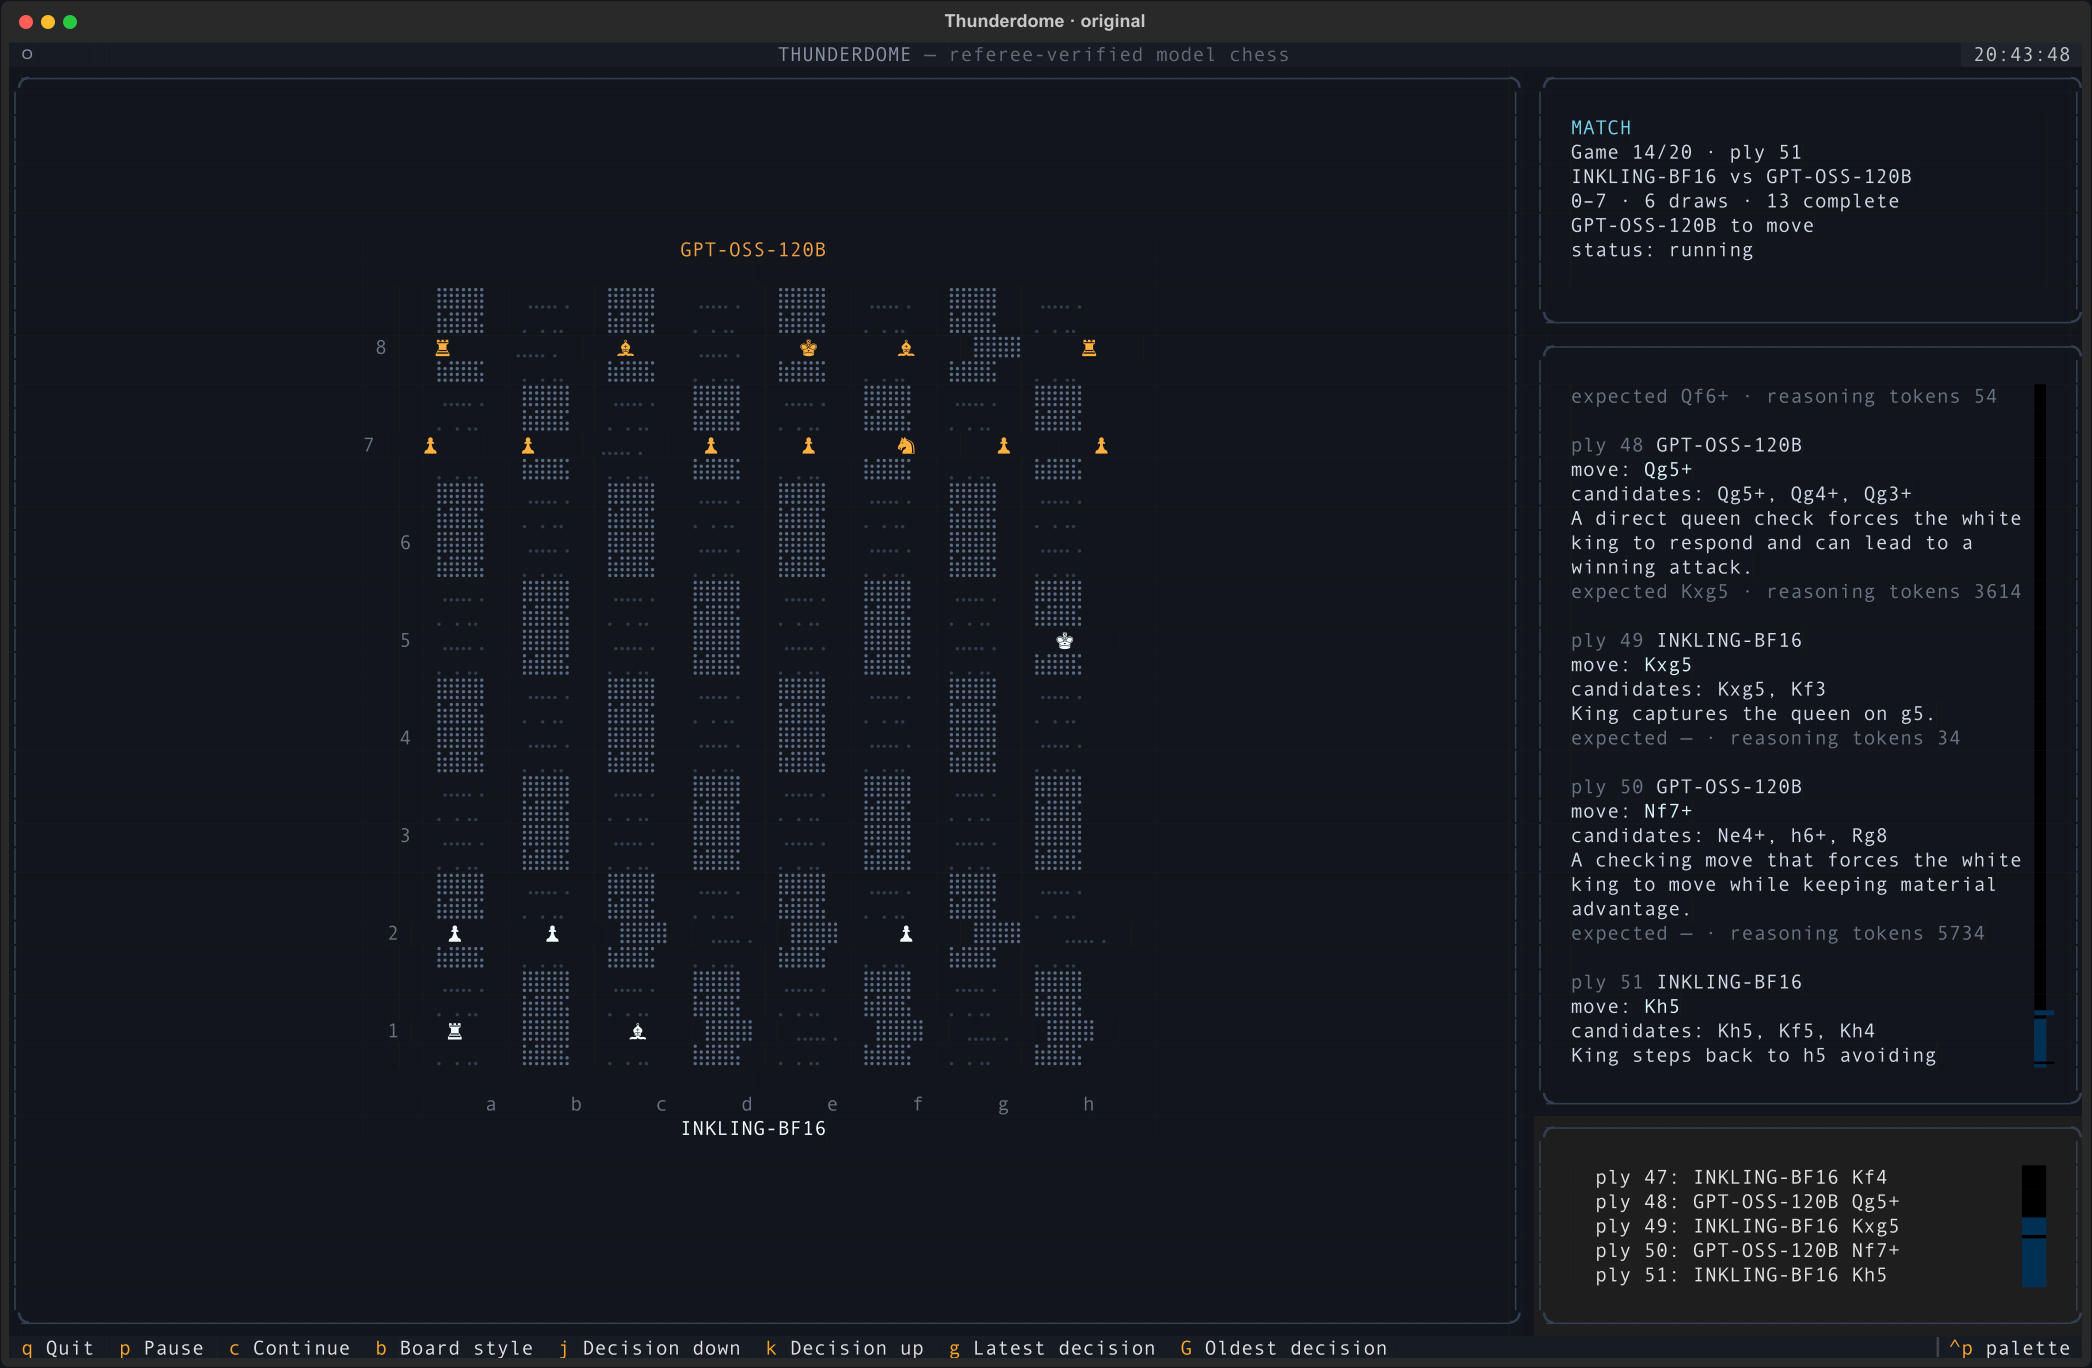
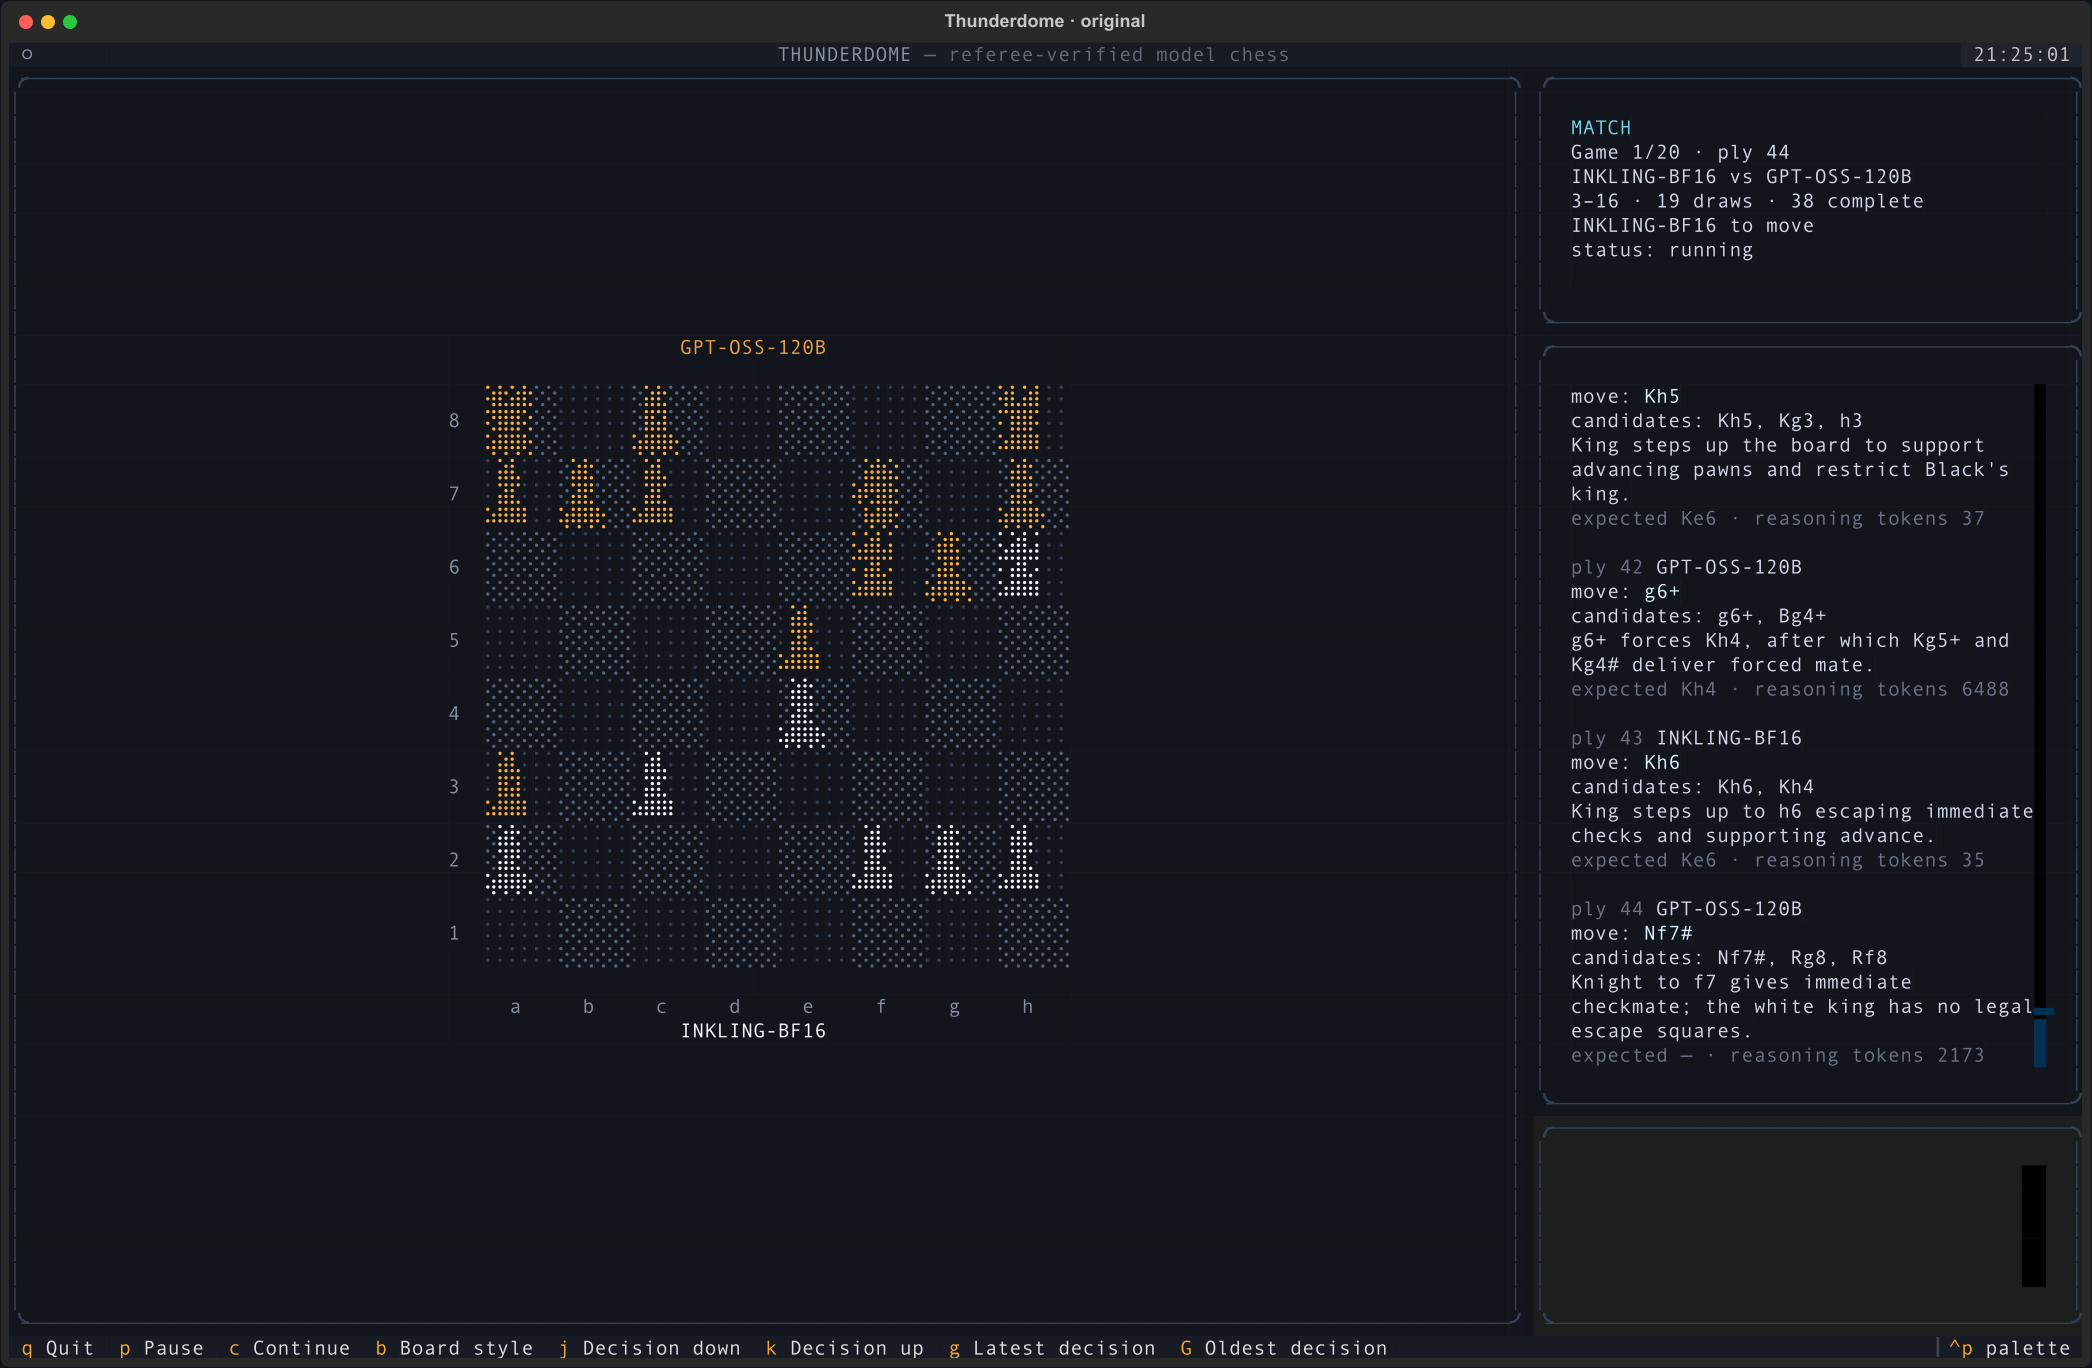
fix: render coherent dot-matrix chessboard

diff --git a/cli/src/arcade_cli/thunderdome.py b/cli/src/arcade_cli/thunderdome.py
@@ -100,7 +100,15 @@ class BrailleBoard(Static):
     """Board widget with an original dot-field style and a compact glyph style."""
 
     GLYPHS = {1: "●", 2: "◆", 3: "▲", 4: "■", 5: "✦", 6: "♚"}
-    FIGURES = {1: "♟", 2: "♞", 3: "♝", 4: "♜", 5: "♛", 6: "♚"}
+    SPRITES = {
+        1: ("  ██  ", " ████ ", "  ██  ", " ████ ", "██████"),
+        2: ("  ███ ", " █████", "██ ███", "   ███", " █████"),
+        3: ("  ██  ", " ████ ", " ██ █ ", " ████ ", "██████"),
+        4: ("██  ██", "██████", " ████ ", " ████ ", "██████"),
+        5: ("█ ██ █", "██████", " ████ ", "  ██  ", "██████"),
+        6: ("  ██  ", "██████", "  ██  ", " ████ ", "██████"),
+    }
+    DOT_BITS = ((0x01, 0x02, 0x04, 0x40), (0x08, 0x10, 0x20, 0x80))
 
     def __init__(self, style: str = "original", **kwargs):
         super().__init__(**kwargs)
@@ -135,33 +143,57 @@ class BrailleBoard(Static):
         self._paint_original()
 
     def _paint_original(self) -> None:
-        """Dot-field board: squares are braille density, pieces are solid dots."""
+        """Render one coherent braille canvas; pieces and squares share its dot grid."""
         text = Text(justify="center")
         text.append(f"{self.black}\n\n", style="bold #f0a046")
-        drift = self.phase
-        rows_per_square = 4
-        for rank in range(7, -1, -1):
-            for row in range(rows_per_square):
-                label = f"{rank + 1} " if row == 2 else "  "
-                text.append(label, style="#697386")
-                for file in range(8):
-                    square = chess.square(file, rank)
-                    piece = self.board.piece_at(square)
-                    light = (file + rank) % 2
-                    if piece and row == 2:
-                        glyph = self.FIGURES[piece.piece_type]
-                        style = "bold #f2fbff" if piece.color else "bold #ffb03e"
-                        text.append(f"   {glyph}    ", style=style)
-                        continue
-                    if light:
-                        cell = "⣿⣿⣿⣿" if (row + drift) % 2 == 0 else "⣷⣿⣿⣯"
-                        style = "#5a6d88"
-                    else:
-                        cell = "⢀⣀⣀⢀" if (row + drift) % 2 == 0 else "⡀⢀⢀⡀"
-                        style = "#303d52"
-                    text.append(f" {cell}  ", style=style)
-                text.append("\n")
-        text.append("\n     a      b      c      d      e      f      g      h\n", style="#697386")
+        cw, ch = 6, 3
+        width, height = cw * 8, ch * 8
+        bits = [[0 for _ in range(width)] for _ in range(height)]
+        colors = [["#53657f" for _ in range(width)] for _ in range(height)]
+
+        def set_dot(x: int, y: int, color: str) -> None:
+            if 0 <= x < width * 2 and 0 <= y < height * 4:
+                cx, cy = x // 2, y // 4
+                bits[cy][cx] |= self.DOT_BITS[x % 2][y % 4]
+                colors[cy][cx] = color
+
+        # A single ordered lattice gives every square identical pitch and edges.
+        for rank in range(8):
+            for file in range(8):
+                light = (file + rank) % 2
+                density = 4 if light else 2
+                color = "#53657f" if light else "#334156"
+                x0, y0 = file * cw * 2, (7 - rank) * ch * 4
+                for y in range(ch * 4):
+                    for x in range(cw * 2):
+                        threshold = ((0, 4), (6, 2), (1, 5), (7, 3))[y % 4][x % 2]
+                        if threshold < density:
+                            set_dot(x0 + x, y0 + y, color)
+
+        # Purpose-built dot silhouettes replace font-dependent Unicode pieces.
+        for square, piece in self.board.piece_map().items():
+            file, rank = chess.square_file(square), chess.square_rank(square)
+            x0, y0 = file * cw * 2 + 1, (7 - rank) * ch * 4 + 1
+            sprite = self.SPRITES[piece.piece_type]
+            color = "#f2fbff" if piece.color else "#ffb03e"
+            for sy, row in enumerate(sprite):
+                for sx, value in enumerate(row):
+                    if value != " ":
+                        # Two vertical dots add weight without breaking the lattice.
+                        set_dot(x0 + sx, y0 + sy * 2, color)
+                        set_dot(x0 + sx, y0 + sy * 2 + 1, color)
+
+        for cy in range(height):
+            text.append(f"{8 - cy // ch}  " if cy % ch == ch // 2 else "   ", style="#8490a4")
+            last_color = None
+            for cx in range(width):
+                color = colors[cy][cx]
+                if color != last_color:
+                    text.append("", style=color)
+                    last_color = color
+                text.append(chr(0x2800 + bits[cy][cx]), style=color)
+            text.append("\n")
+        text.append("\n   " + "".join(f"{file:^{cw}}" for file in "abcdefgh") + "\n", style="#8490a4")
         text.append(self.white, style="bold #f2fbff")
         super().update(text)
 

diff --git a/cli/tests/test_thunderdome.py b/cli/tests/test_thunderdome.py
@@ -46,7 +46,10 @@ async def test_braille_board_renders_multiple_rows():
         board.update_position(chess.Board(), "WHITE", "BLACK")
         lines = str(board.content).splitlines()
 
-        assert len(lines) >= 12
+        assert len(lines) == 29
+        assert all(len(line) >= 51 for line in lines[2:26])
+        assert not any(symbol in str(board.content) for symbol in "♟♞♝♜♛♚")
+        assert any("⣿" in line or "⣶" in line for line in lines)
         assert any("WHITE" in line for line in lines)
         assert any("BLACK" in line for line in lines)
 
@@ -79,7 +82,7 @@ async def test_textual_app_renders_single_pane_state():
         app.refresh_state()
 
         assert "GPT-OSS-120B" in str(app.query_one("#match").content)
-        assert "♜" in str(app.query_one("#board").content)
+        assert "⣿" in str(app.query_one("#board").content)
         assert "DECISIONS" in str(app.query_one("#decision").content)
 
 
